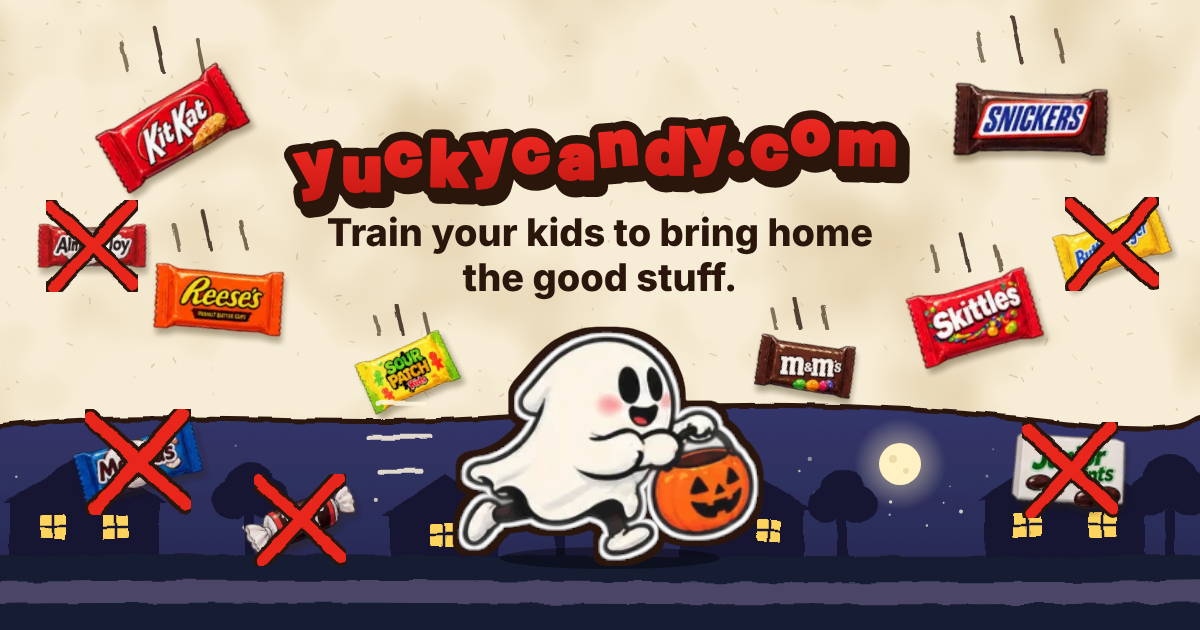
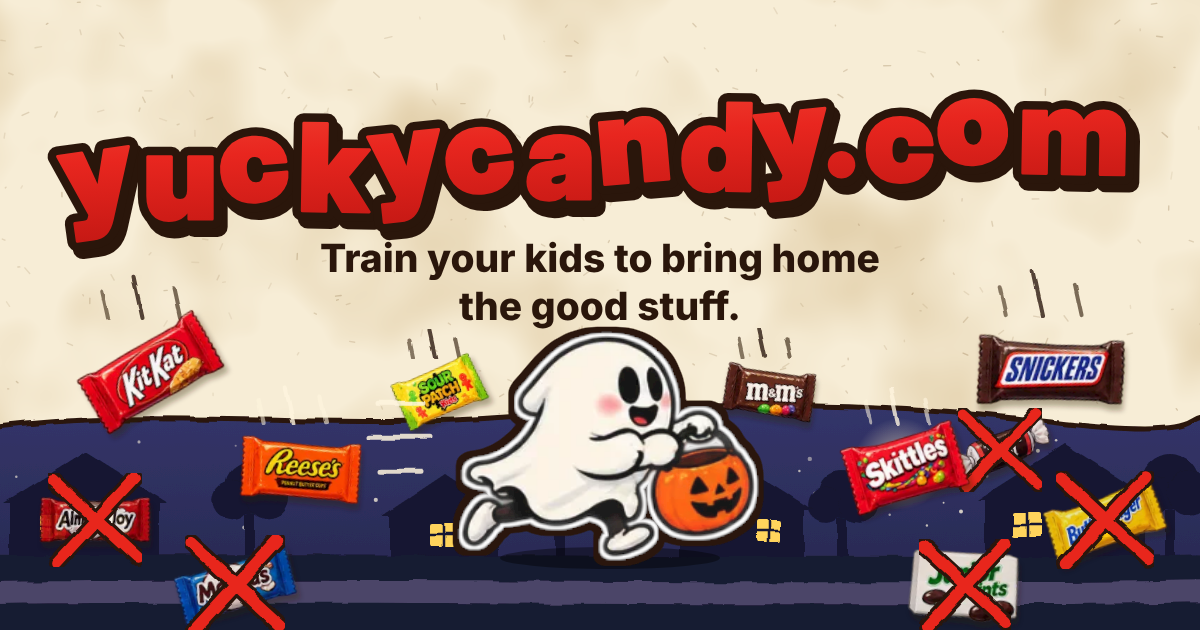
OG image: full-width title so it reads in link previews
Claude-Session: https://claude.ai/code/session_01EXp7fTQVXVsxXS1HAz5Wym

diff --git a/tools/render-og.js b/tools/render-og.js
@@ -121,19 +121,19 @@ const GROUND = 556; // where the ghost stands
 
 // [slug, cx, cy, width, rotation]. Good candies fall toward the ghost; yuck candies get a red X.
 const GOOD = [
-  ['kit-kat', 172, 128, 158, -16],
-  ['snickers', 1030, 122, 165, 13],
-  ['reeses', 218, 300, 140, 12],
-  ['skittles', 975, 318, 132, -12],
-  ['sour-patch-kids', 408, 372, 104, -14],
-  ['mms', 806, 366, 106, 18],
+  ['kit-kat', 150, 372, 150, -16],
+  ['snickers', 1050, 372, 158, 13],
+  ['reeses', 300, 470, 130, 12],
+  ['skittles', 905, 468, 124, -12],
+  ['sour-patch-kids', 440, 392, 96, -14],
+  ['mms', 770, 392, 98, 18],
 ];
 const YUCK = [
-  ['almond-joy', 92, 246, 116, 10],
-  ['butterfinger', 1112, 244, 118, -12],
-  ['mounds', 138, 462, 132, -8],
-  ['junior-mints', 1070, 470, 120, 10],
-  ['tootsie-roll', 300, 520, 116, -6],
+  ['almond-joy', 95, 520, 118, 10],
+  ['butterfinger', 1105, 520, 122, -12],
+  ['mounds', 235, 585, 124, -8],
+  ['junior-mints', 965, 585, 116, 10],
+  ['tootsie-roll', 1000, 450, 104, -6],
 ];
 
 function candy(slug, x, y, s, rot, extra = '') {
@@ -226,9 +226,9 @@ function ogSvg() {
   <rect width="${W}" height="${H}" filter="url(#blotch)"/>
   ${paperFlecks()}
   ${neighborhood()}
-  ${logo(600, 172, 124, 580)}
-  <text x="600" y="246" text-anchor="middle" font-family="${TEXT_FONT}" font-weight="800" font-size="38" fill="${C.ink}" data-fit="tag" data-maxw="560">Train your kids to bring home</text>
-  <text x="600" y="291" text-anchor="middle" font-family="${TEXT_FONT}" font-weight="800" font-size="38" fill="${C.ink}" data-fit="tag" data-maxw="560">the good stuff.</text>
+  ${logo(600, 190, 196, 1060)}
+  <text x="600" y="272" text-anchor="middle" font-family="${TEXT_FONT}" font-weight="800" font-size="40" fill="${C.ink}" data-fit="tag" data-maxw="560">Train your kids to bring home</text>
+  <text x="600" y="320" text-anchor="middle" font-family="${TEXT_FONT}" font-weight="800" font-size="40" fill="${C.ink}" data-fit="tag" data-maxw="560">the good stuff.</text>
   ${YUCK.map(yuck).join('\n')}
   ${GOOD.map(good).join('\n')}
   <ellipse cx="610" cy="${GROUND + 2}" rx="110" ry="11" fill="#000" opacity=".4"/>
